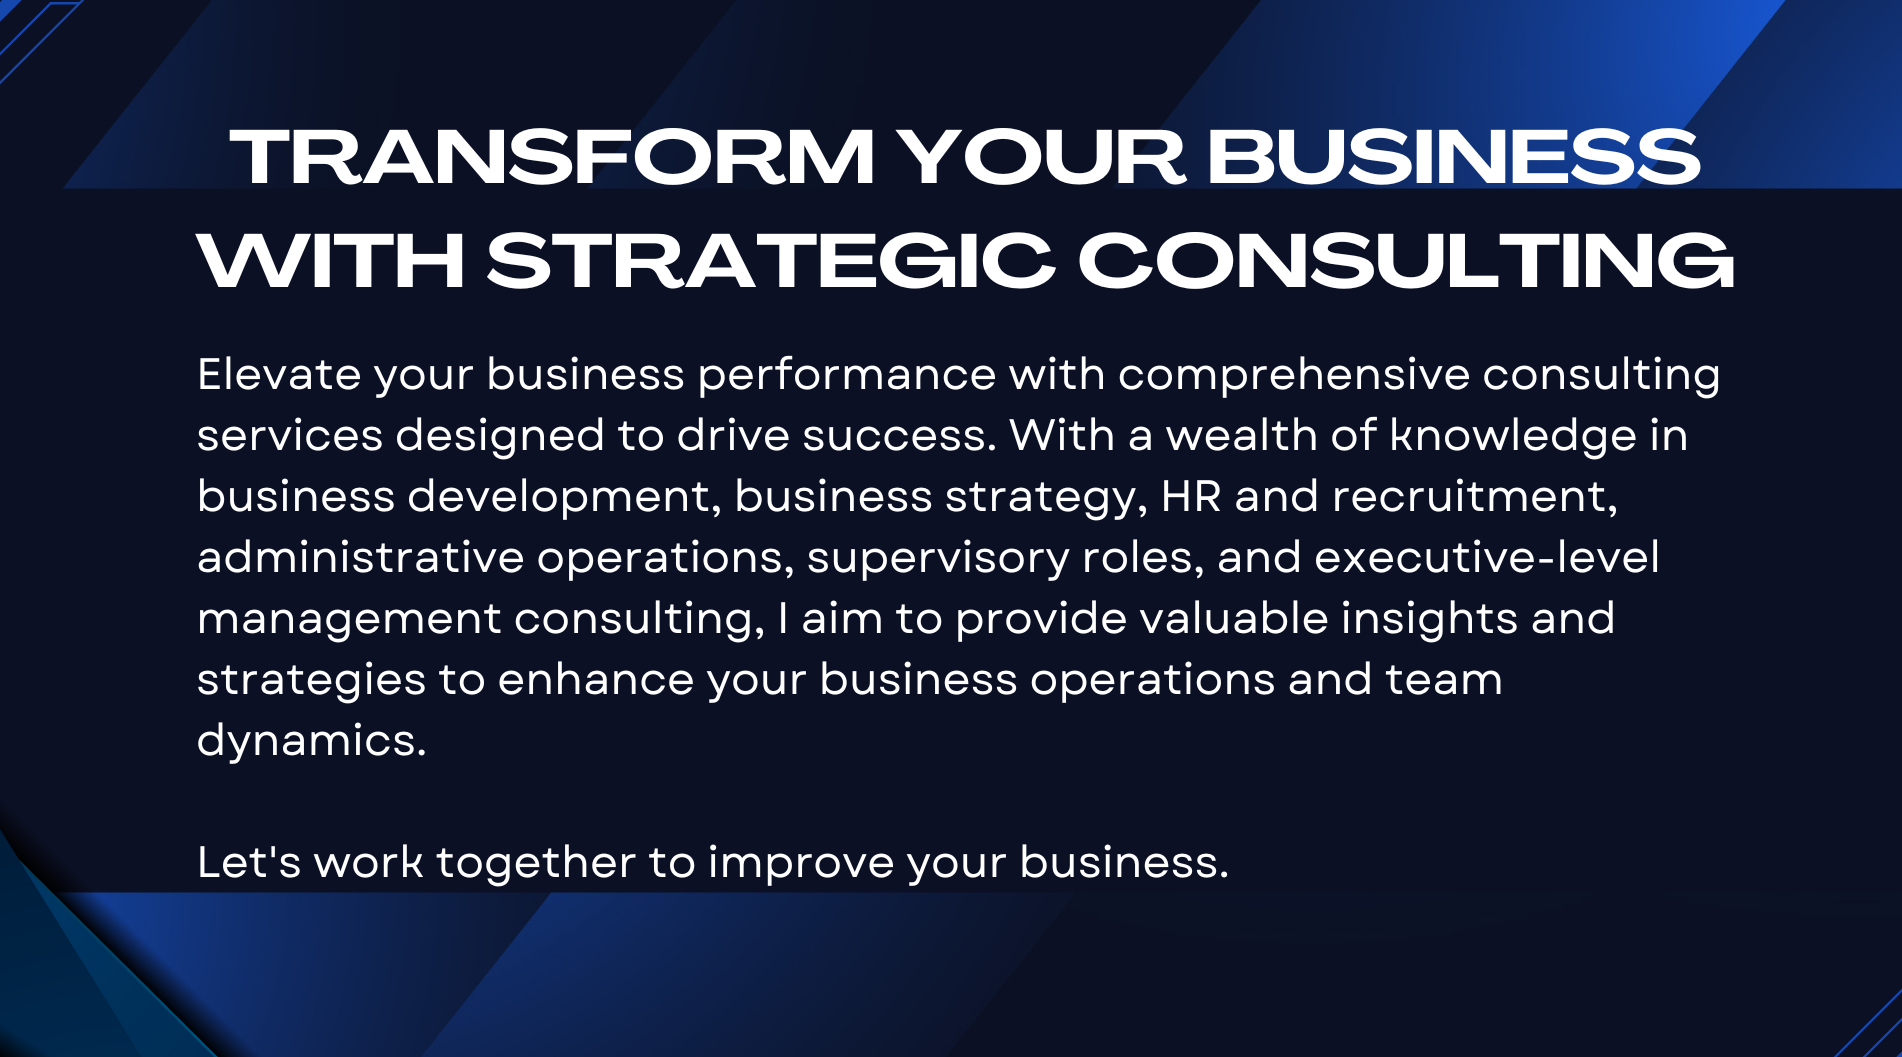
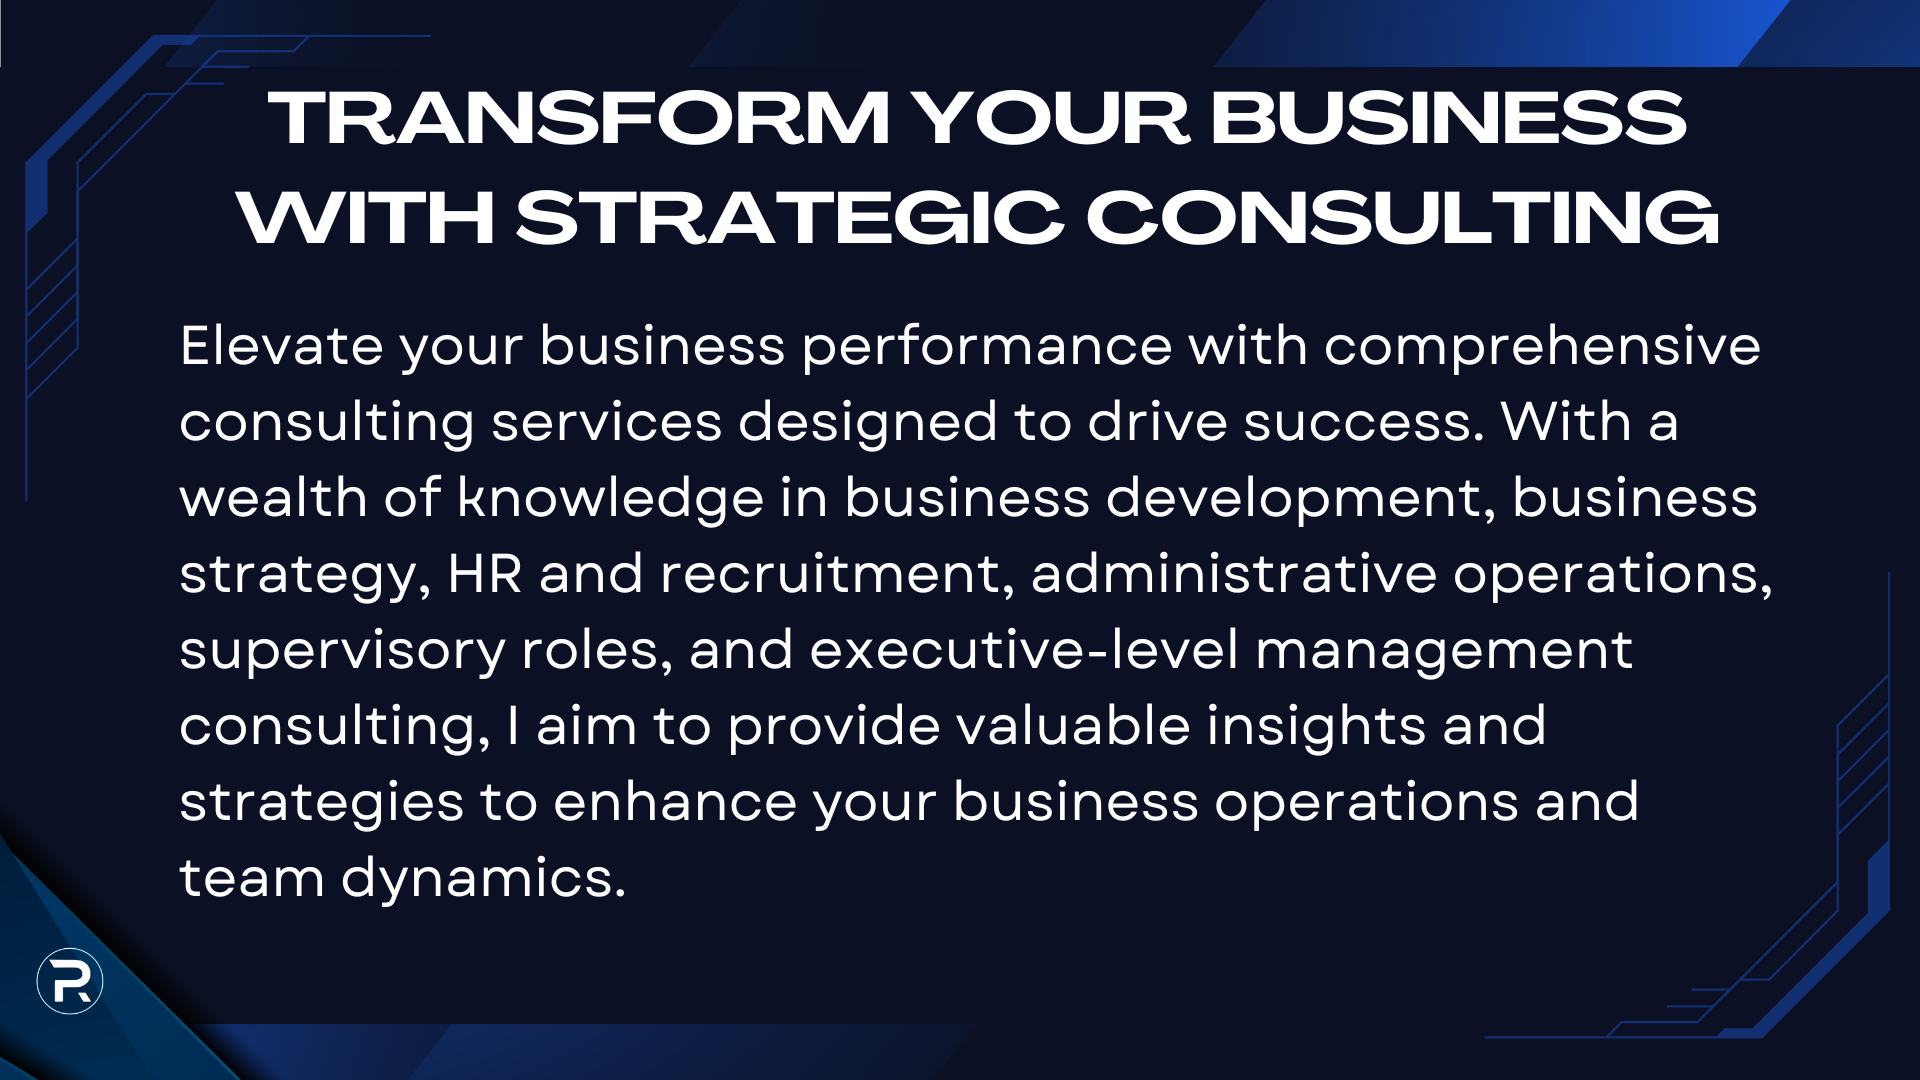
small updates to service page

diff --git a/src/styles/Service.css b/src/styles/Service.css
@@ -13,11 +13,12 @@ body.servicepage-no-padding {
   flex-direction: column;
   align-items: center;
   justify-content: center;
-  width: 100%;
+  width: 70%;
+  margin: 40px auto;
 }
 
 .centered-image {
-  width: 40%;
+  width: 67%;
   margin: 0 auto;
   display: block;
   border-radius: 1%;
@@ -26,6 +27,8 @@ body.servicepage-no-padding {
 .centered-text {
   text-align: center;
   margin-top: 1rem; /* Adds some space between image and text */
+  font-size: 1.6rem;
+  line-height: 1.6;
 }
   
 .content-spacing {
@@ -45,13 +48,29 @@ body.servicepage-no-padding {
   padding: 2rem 0;
 }
 
-
 .serviceDetail_section {
-  position: relative;
-  margin-top: 10rem; /* Add spacing above the section */
-  z-index: 5; /* Ensure it stacks correctly relative to the Tabs */
-  padding: 2rem; /* Optional: Add some padding for better aesthetics */
+  display: flex;
+  flex-direction: column;
+  align-items: center;
+  justify-content: center;
+  width: 67%;
+  margin: 100px auto 40px auto; /*top rgiht bottom left*/
 }
+
+.image_end_page {
+  width: 37%;
+  margin: 0 auto;
+  display: block;
+  border-radius: 7%;
+}
+
+.p_text_end_page {
+  text-align: center;
+  margin-top: 1rem; /* Adds some space between image and text */
+  font-size: 1.6rem;
+  line-height: 1.6;
+}
+
 
 .service_mobile_heading_section h1 {
   font-size: 2rem;
